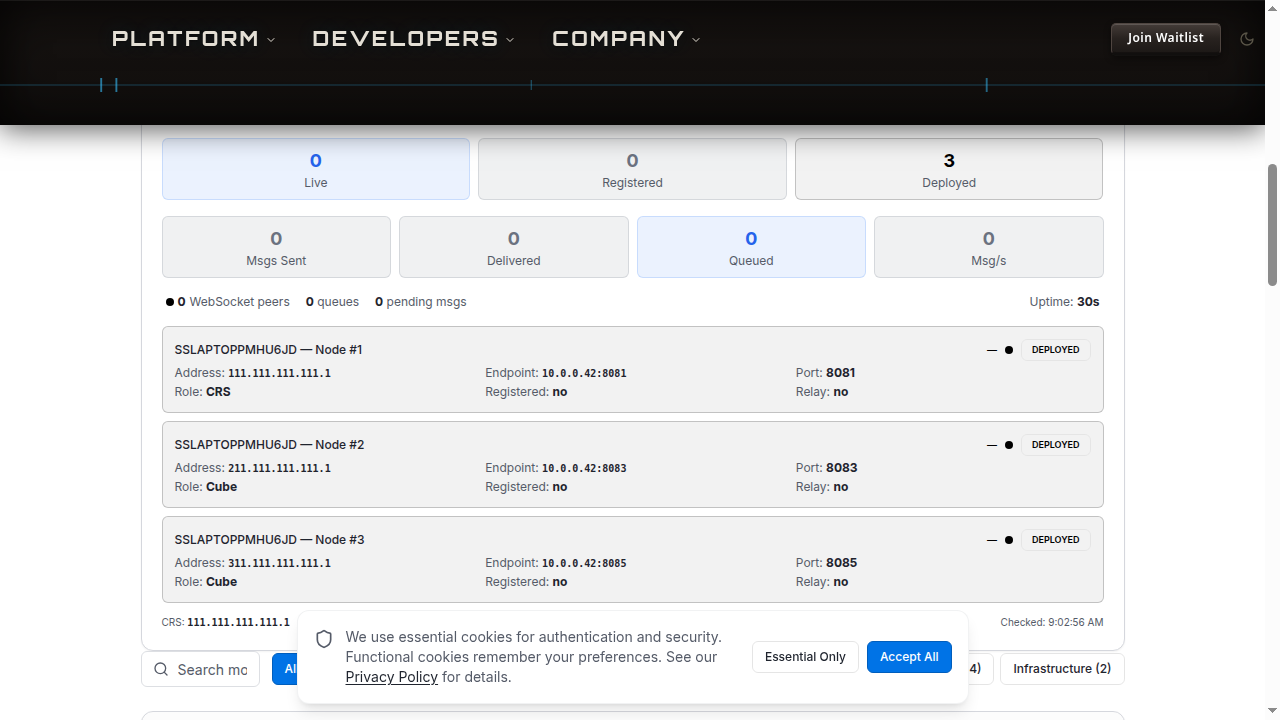
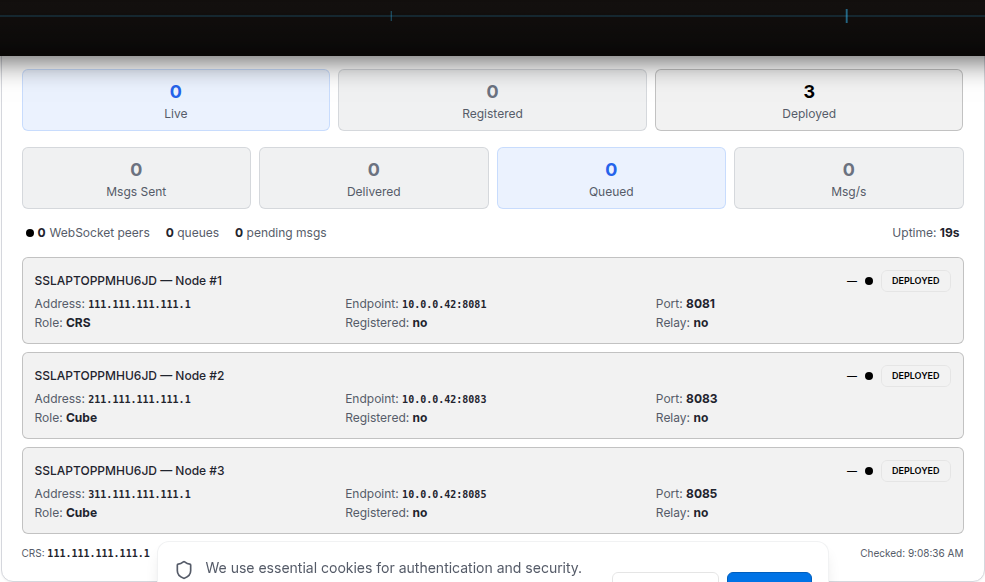
Task #24: Relay Restart Button on Node Registry
Added a "Restart Nodes" button to the Cluster Report on the distribution
page that broadcasts a restart command to all connected WebSocket relay
nodes.

Server (server/index.ts):
- broadcastRelayRestart() helper sends {type:"restart"} to each connected
  WebSocket peer then closes connections with code 1012 (service restart)
- POST /api/salvi/inter-cube/relay/restart-nodes endpoint
- Auth: requires x-admin-key header matching SESSION_SECRET

Daemon (services/inter-cube/src/ws_relay.rs):
- Added "restart" message handler in the read loop
- On receipt, logs and calls std::process::exit(0) so the
  service manager / bat file restarts the daemon binary

Frontend (client/src/pages/distribution.tsx):
- "Restart Nodes" button in ClusterReport header (orange outline style)
- Disabled when no relay peers are connected or mutation is pending
- Prompts for admin key before sending the broadcast
- Toast notification on success/failure with specific error messages
- Auto-refreshes cluster health 3 seconds after restart

diff --git a/client/src/pages/distribution.tsx b/client/src/pages/distribution.tsx
@@ -40,7 +40,6 @@ import { Badge } from "@/components/ui/badge";
 import { Card } from "@/components/ui/card";
 import { Input } from "@/components/ui/input";
 import { useToast } from "@/hooks/use-toast";
-import { apiRequest } from "@/lib/queryClient";
 import { PLATFORM } from "@shared/constants";
 
 const GITHUB_REPO = "https://github.com/SigmaWolf-8/Ternary";
@@ -734,16 +733,23 @@ function ClusterReport() {
   });
   const { toast } = useToast();
   const restartMutation = useMutation({
-    mutationFn: async () => {
-      const res = await apiRequest("POST", "/api/salvi/inter-cube/relay/restart-nodes");
+    mutationFn: async (adminKey: string) => {
+      const res = await fetch("/api/salvi/inter-cube/relay/restart-nodes", {
+        method: "POST",
+        headers: { "x-admin-key": adminKey },
+      });
+      if (!res.ok) {
+        const body = await res.json().catch(() => ({ error: "Request failed" }));
+        throw new Error(body.error || `HTTP ${res.status}`);
+      }
       return res.json() as Promise<{ restarted: number; message: string }>;
     },
     onSuccess: (result) => {
       toast({ title: "Restart Broadcast Sent", description: result.message });
       setTimeout(() => refetch(), 3000);
     },
-    onError: () => {
-      toast({ title: "Restart Failed", description: "Could not send restart command", variant: "destructive" });
+    onError: (err: Error) => {
+      toast({ title: "Restart Failed", description: err.message === "Forbidden" ? "Invalid admin key" : err.message, variant: "destructive" });
     },
   });
 
@@ -788,7 +794,10 @@ function ClusterReport() {
             variant="outline"
             size="sm"
             className="h-6 px-2 text-[10px] border-orange-500/30 text-orange-700 dark:text-orange-400 hover:bg-orange-500/10"
-            onClick={() => { if (confirm("Restart all connected relay nodes? They will disconnect and reconnect automatically.")) restartMutation.mutate(); }}
+            onClick={() => {
+              const key = prompt("Enter admin key to restart all connected relay nodes:");
+              if (key) restartMutation.mutate(key);
+            }}
             disabled={restartMutation.isPending || !data?.relay || data.relay.connectedPeers === 0}
             data-testid="button-restart-nodes"
           >

diff --git a/server/index.ts b/server/index.ts
@@ -725,17 +725,10 @@ function startPqtiService(): ChildProcess | null {
     purgeStaleRegistrations(STALE_MAX_AGE);
   }, STALE_CLEANUP_INTERVAL);
 
-  app.post("/api/salvi/inter-cube/relay/restart-nodes", (req, res) => {
-    const adminKey = req.headers["x-admin-key"];
-    const replitUser = req.headers["x-replit-user-name"] as string | undefined;
-    const isAdminKey = adminKey === process.env.SESSION_SECRET;
-    const isOwner = replitUser && replitUser === process.env.REPL_OWNER;
-    if (!isAdminKey && !isOwner) {
-      return res.status(403).json({ error: "Forbidden" });
-    }
+  function broadcastRelayRestart(): { restarted: number; message: string } {
     const relayClientsRef = (globalThis as any).__relayClients as Map<string, WebSocket> | undefined;
     if (!relayClientsRef || relayClientsRef.size === 0) {
-      return res.json({ restarted: 0, message: "No relay peers connected" });
+      return { restarted: 0, message: "No relay peers connected" };
     }
     const restartMsg = JSON.stringify({ type: "restart", reason: "admin_request", ts: Date.now() });
     let sent = 0;
@@ -748,7 +741,15 @@ function startPqtiService(): ChildProcess | null {
       }
     }
     console.log(`[ws-relay] Restart broadcast complete — ${sent} node(s) notified`);
-    res.json({ restarted: sent, message: `Restart command sent to ${sent} node(s)` });
+    return { restarted: sent, message: `Restart command sent to ${sent} node(s)` };
+  }
+
+  app.post("/api/salvi/inter-cube/relay/restart-nodes", (req, res) => {
+    const adminKey = req.headers["x-admin-key"];
+    if (!adminKey || adminKey !== process.env.SESSION_SECRET) {
+      return res.status(403).json({ error: "Forbidden" });
+    }
+    res.json(broadcastRelayRestart());
   });
 
   const CRS_ADDRESS = "111.111.111.111.1";
